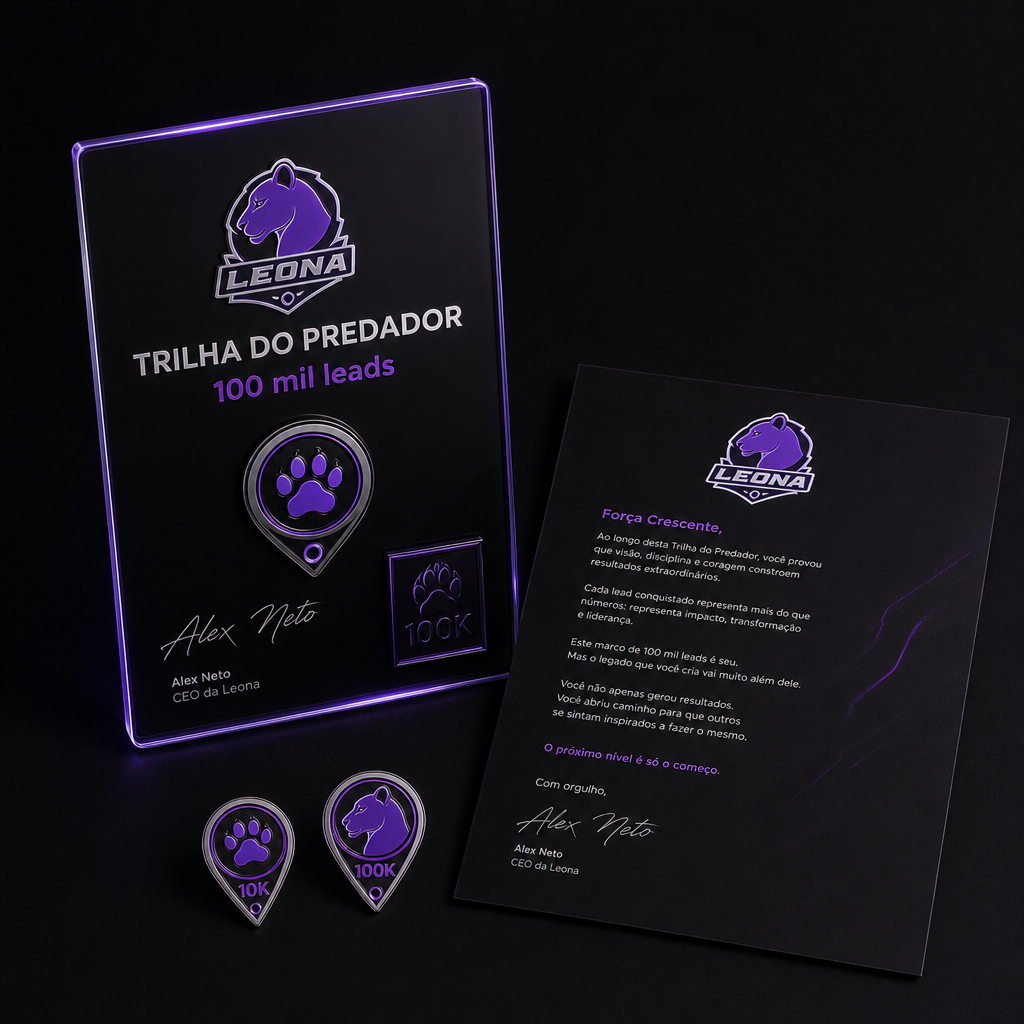
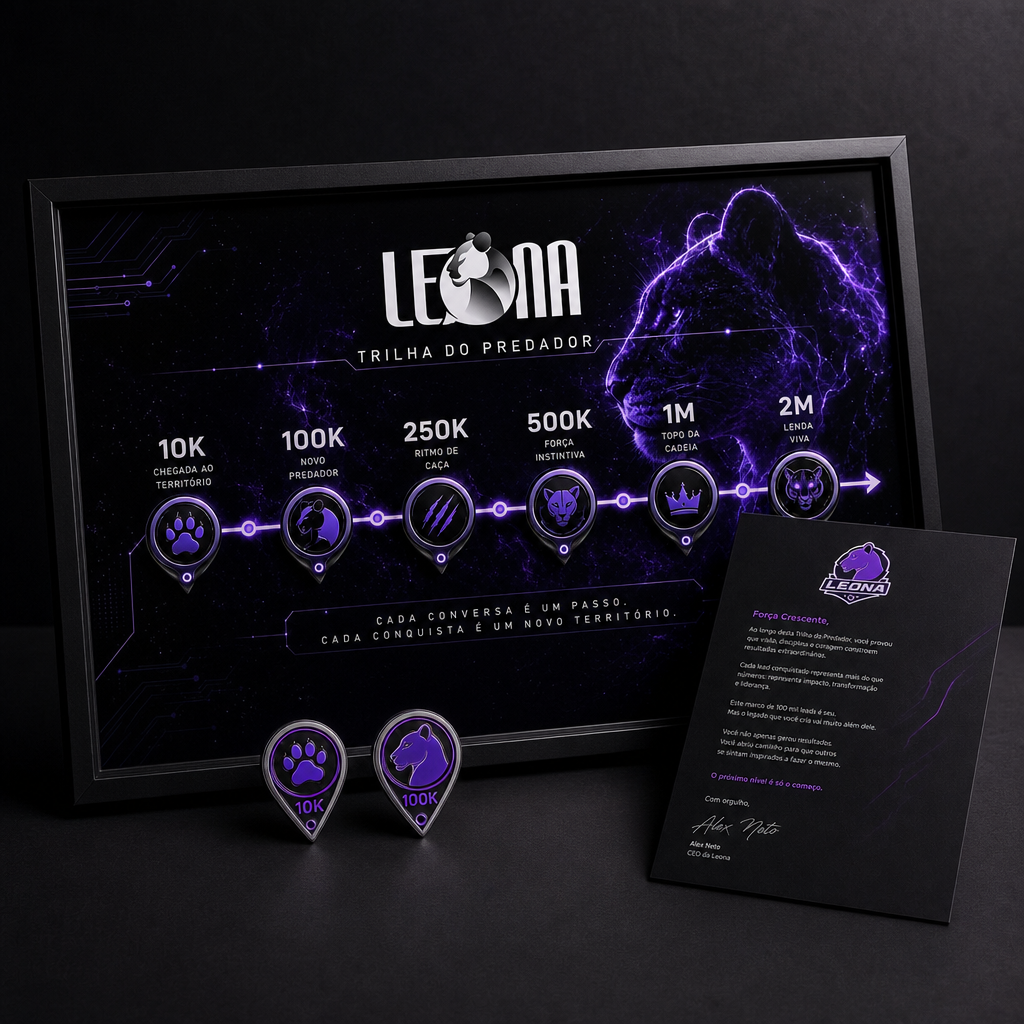
fix(trilha): ajusta kits 10k e 100k conforme referência
10k: só carta+pulseira (sem pin), carta no estilo premium.
100k: quadro Trilha do Predador de fundo, pins e carta em primeiro plano.

Changed region(s): [[0.0312, 0.0, 1.0, 1.0], [0.25, 0.5938, 0.3125, 0.625], [0.1875, 0.5938, 0.2188, 0.625]]

diff --git a/lib/trilha-prizes.js b/lib/trilha-prizes.js
@@ -9,9 +9,9 @@ export const TRILHA_PRIZES = [
     id: '10k',
     milestone: 10_000,
     label: 'R$ 10 mil',
-    title: 'Carta + Pulseira + Pin 10k',
+    title: 'Carta + Pulseira',
     image: '/trilha/trilha-10k.png',
-    items: ['Carta comemorativa', 'Pulseira Leona', 'Pin 10k'],
+    items: ['Carta comemorativa', 'Pulseira Leona'],
     priceCents: 1990,
     shippingLabel: 'Somente frete',
     freeShipping: false
